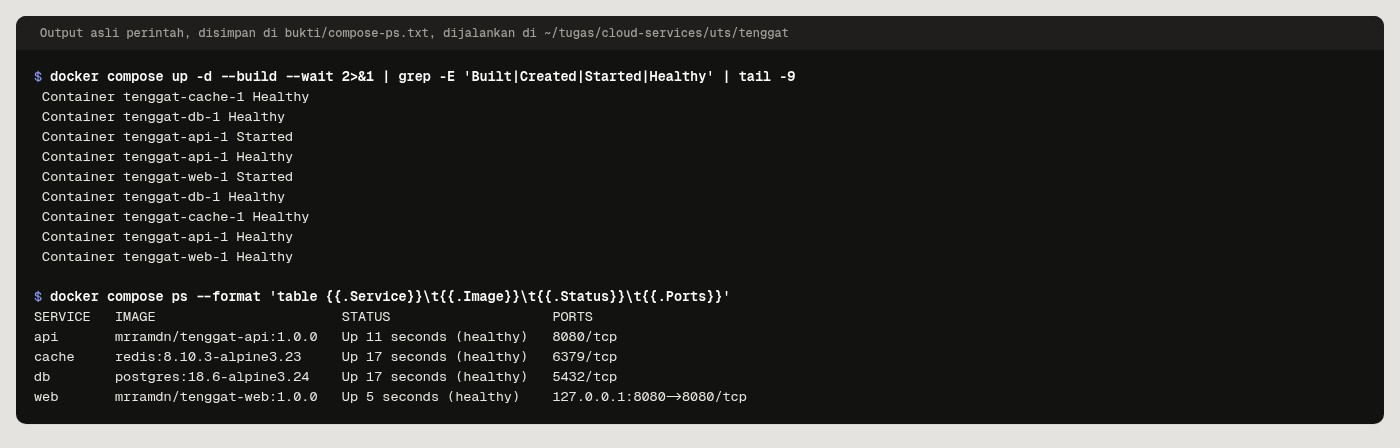
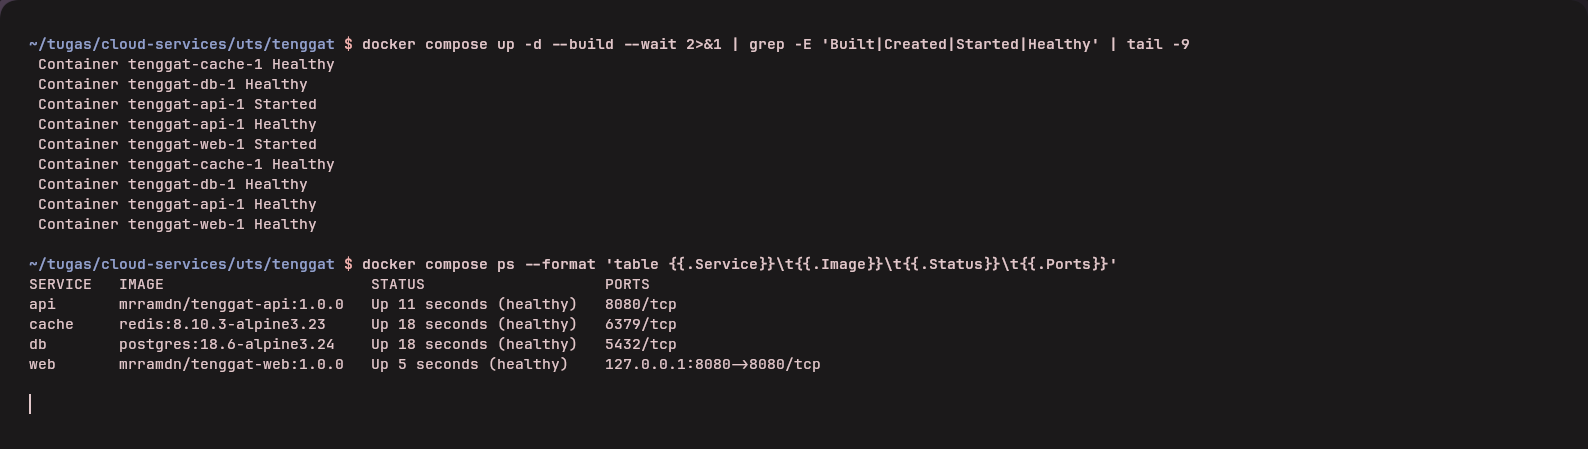
docs: real terminal screenshot of compose ps, article numbers from the latest run

Changed region(s): [[0.0, 0.0, 1.0, 1.0]]

diff --git a/docs/index.html b/docs/index.html
@@ -105,7 +105,7 @@ docker compose up -d --build
 <figure><img src="compose-ps.png" alt="docker compose ps: every service running and healthy" loading="lazy"></figure>
 
 <h2>Redis earns its place</h2>
-<p>Lookups are cached, so a repeated certificate check dropped from 257 ms to 10 ms. List reads carry an
+<p>Lookups are cached, so a repeated certificate check dropped from 367 ms to 5 ms. List reads carry an
 <code>X-Cache: HIT/MISS</code> header, and every write bumps a version number so stale entries are never served. Writes are
 limited to 30 a minute per client; the next one gets <code>429</code> with <code>Retry-After</code>.</p>
 <h2>What I learned</h2>
